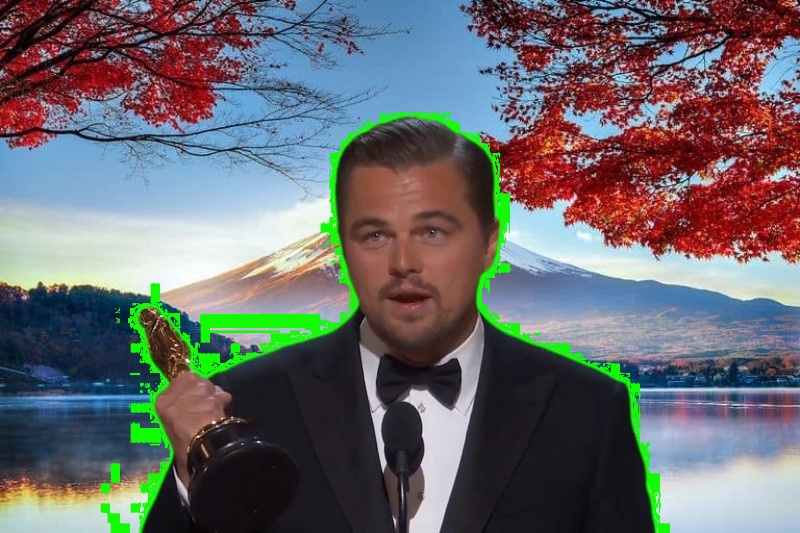
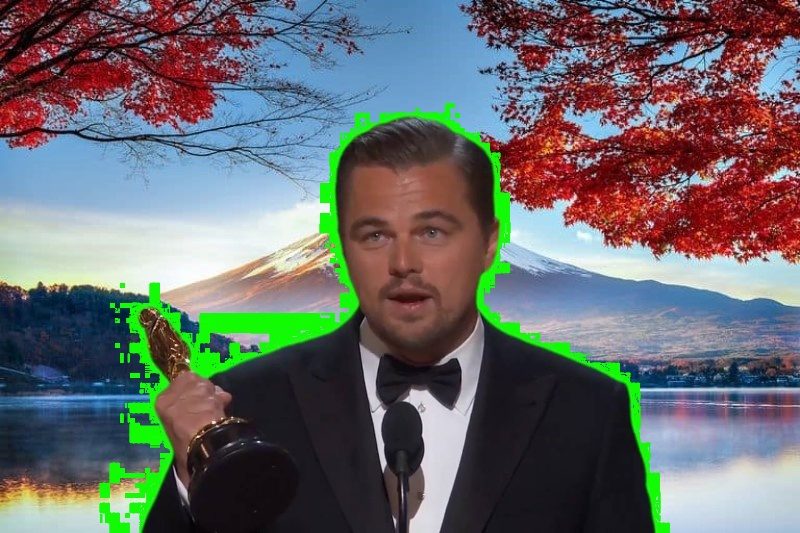
Algorithm selectable, split remove_background and url_to_image

diff --git a/scr/RemoveBg.py b/scr/RemoveBg.py
@@ -3,6 +3,12 @@ import matplotlib.pyplot as plt
 import numpy as np
 import urllib.request as get
 
+Algorithm = {
+    'GD':1,
+    'Canny' : 2,
+    'Laplacian':3,
+}
+
 class RemoveBg:
     """
     Remove Background 🌲
@@ -13,25 +19,30 @@ class RemoveBg:
         self.disc = lambda d: cv2.getStructuringElement(cv2.MORPH_ELLIPSE, (d, d))
         pass
 
-    def remove_background(self, url, sigmoi):
+    def remove_background(self, img, algorithm ,sigmoi):
         """
         url: path to file 👉
         sigmoi: value of sigmoi for all channels 
         """
-
-        img = self.url_to_image(url)
-
         grace = cv2.cvtColor(img, cv2.COLOR_BGR2GRAY)
         hsv = cv2.cvtColor(img, cv2.COLOR_BGR2HSV)
 
-        # find edge        
-        gd = self.calc_energy(img)
-        _, gd = cv2.threshold(gd, 127, 255, cv2.THRESH_BINARY)
-        gd = np.uint8(gd)
-        gd = cv2.morphologyEx(gd, cv2.MORPH_OPEN, self.disc(5))
+        # find edge  
+        if algorithm == Algorithm['GD']:
+            edge = self.calc_energy(img)
+            _, edge = cv2.threshold(edge, 127, 255, cv2.THRESH_BINARY)
+            edge = np.uint8(edge)
+            edge = cv2.morphologyEx(edge, cv2.MORPH_OPEN, (10,10))
+        elif algorithm == Algorithm['Canny']:
+            edge = cv2.Canny(grace, 120, 255)
+        else:
+            grace = cv2.GaussianBlur(grace, (3,3), 0)
+            edge = cv2.Laplacian(grace,cv2.CV_16S,ksize=3)
+            edge = cv2.convertScaleAbs(edge)
+            edge = cv2.morphologyEx(edge, cv2.MORPH_OPEN, (10,10))
         
         # localize biggest rectangle that contain all edge
-        x,y,w,h = cv2.boundingRect(gd)
+        x,y,w,h = cv2.boundingRect(edge)
         mask = np.ones(grace.shape, np.uint8) * 255
         cv2.rectangle(mask, (x,y),(x+w, y+h), 0, -1)
 

diff --git a/how_to_use.py b/how_to_use.py
@@ -2,7 +2,7 @@ import scr.RemoveBg as rm
 import scr.AddBg as add
 import cv2
 
-obj, mask = rm.RemoveBg().remove_background('https://i.ytimg.com/vi/m9_uc4ggQyk/maxresdefault.jpg',6)
+obj, mask = rm.RemoveBg().remove_background(rm.RemoveBg().url_to_image('https://i.ytimg.com/vi/m9_uc4ggQyk/maxresdefault.jpg'), rm.Algorithm['Laplacian'] ,6)
 result = add.AddBg(obj,mask,'https://travelgear.vn/blog/wp-content/uploads/2019/08/dia-diem-du-lich-va-canh-dep-nhat-ban.jpg',1)
 
 cv2.imwrite('result.jpg',result)
